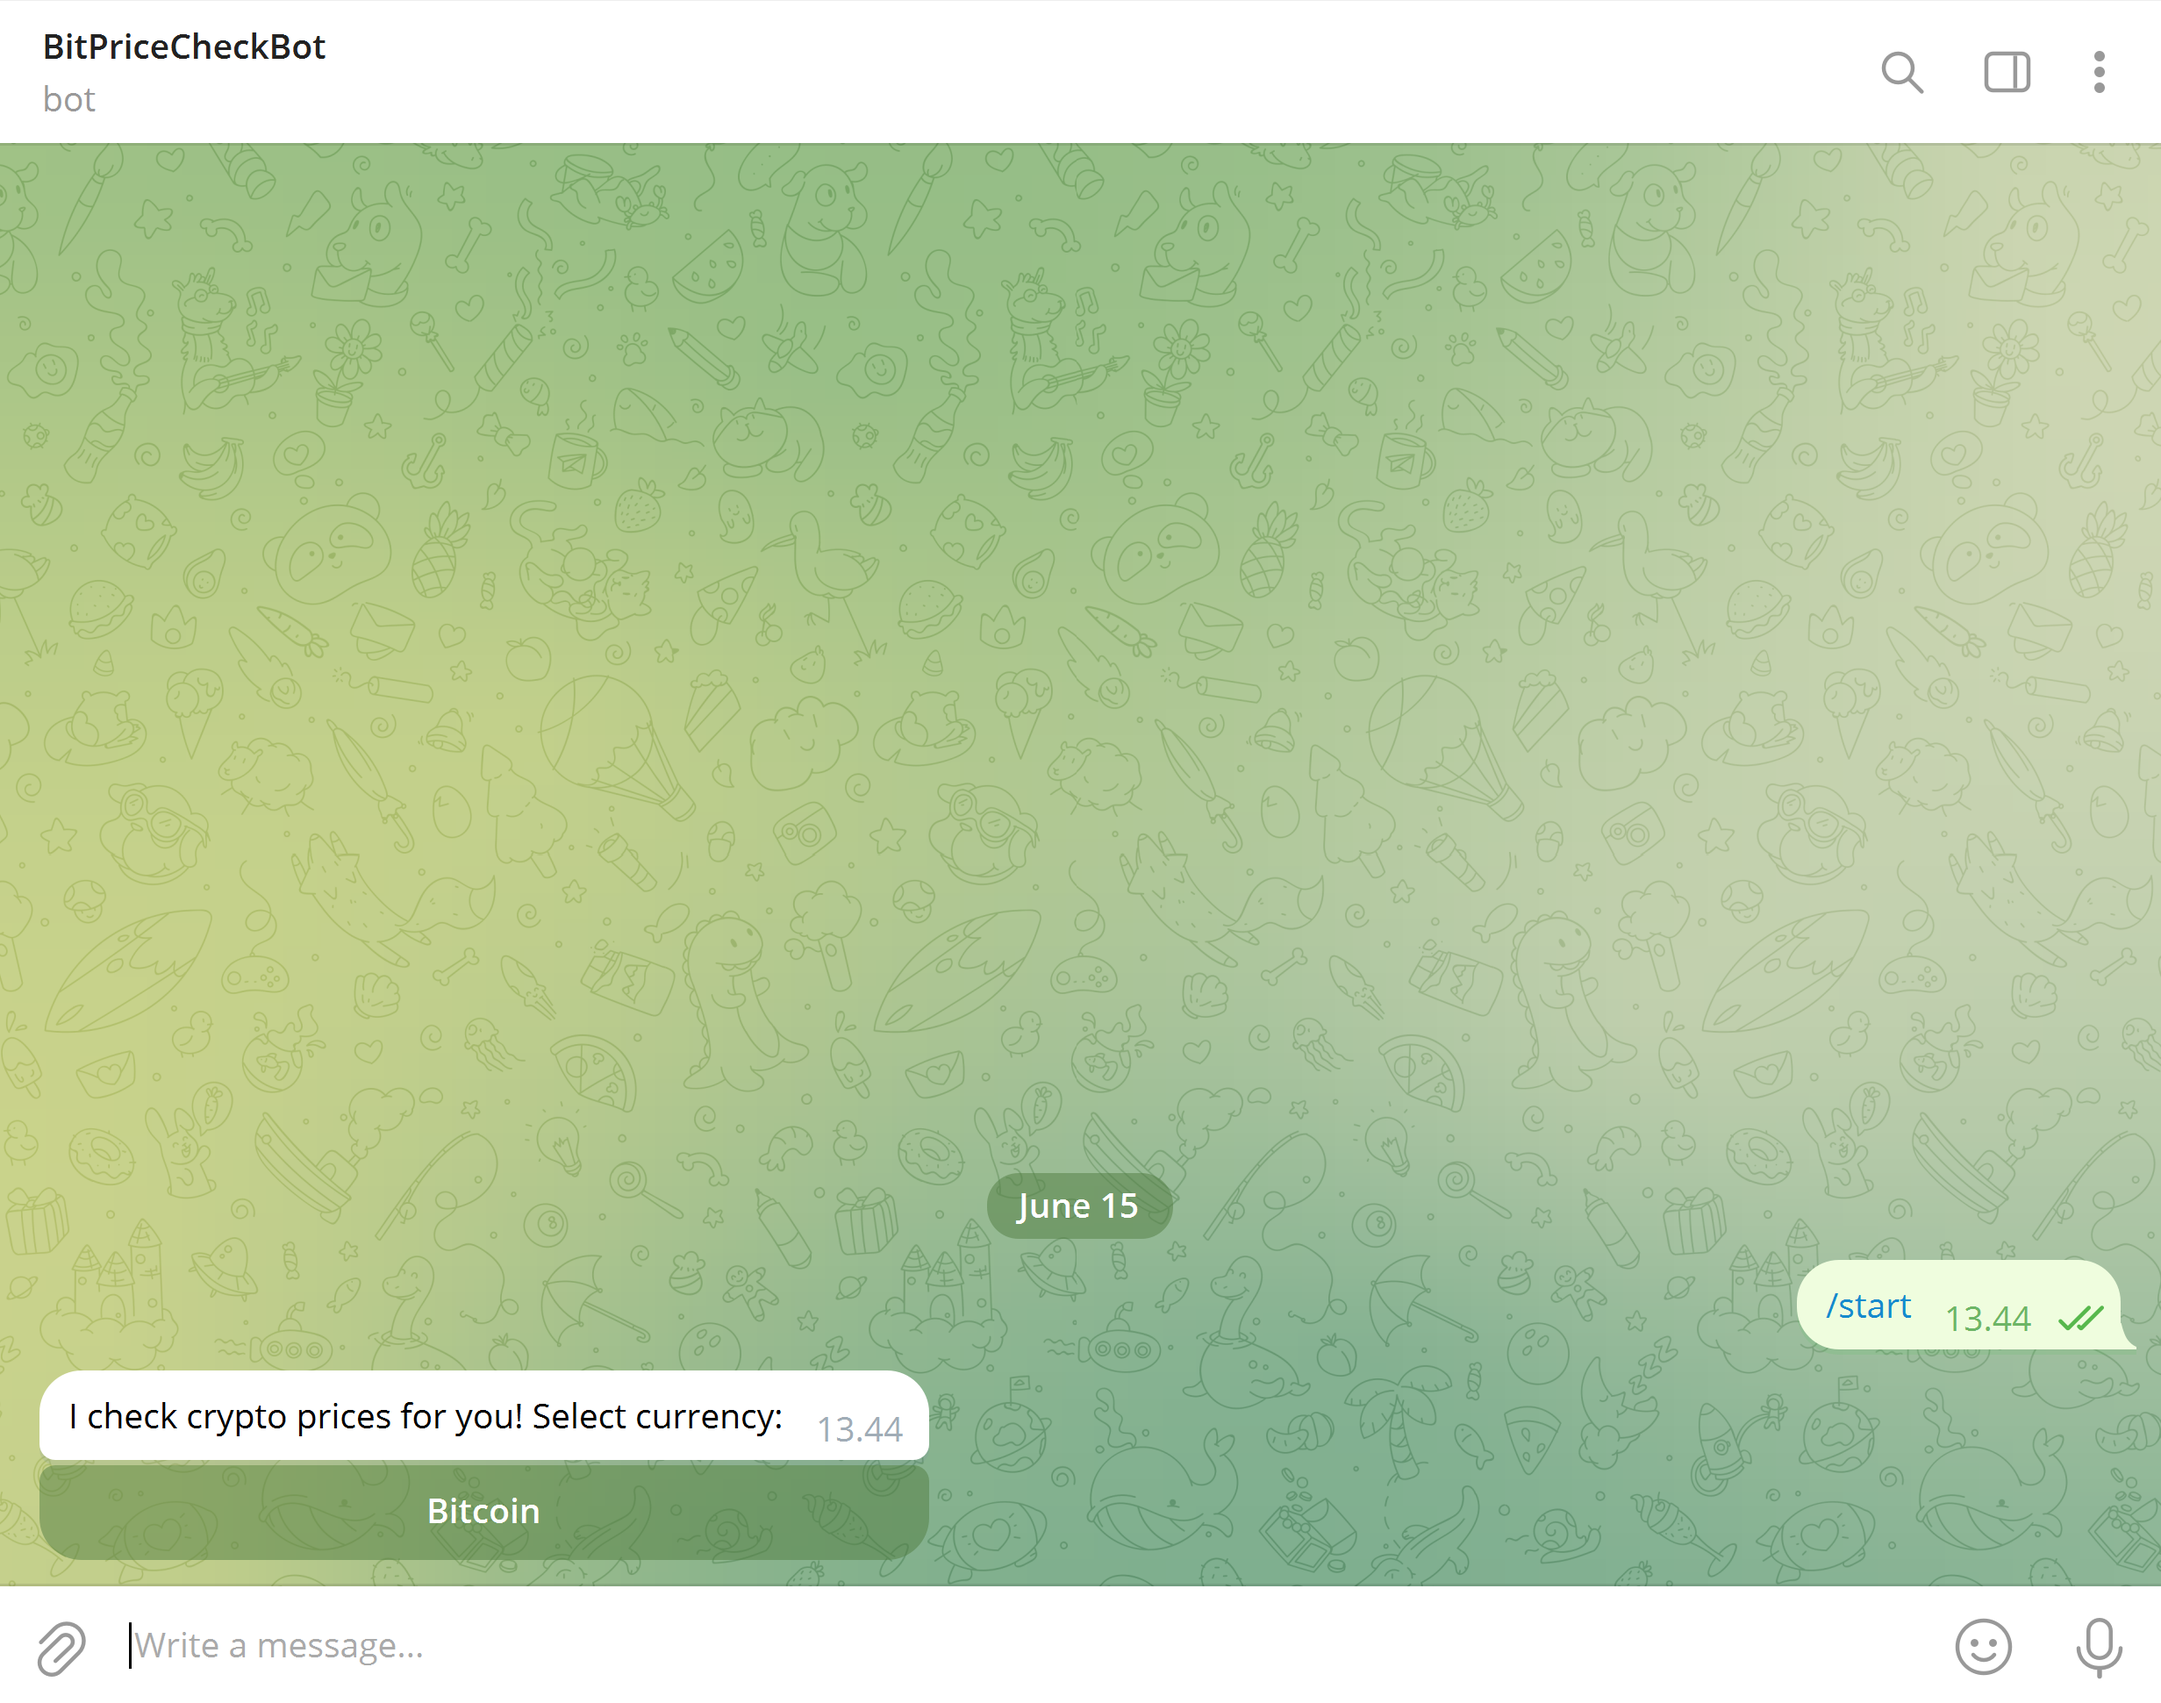
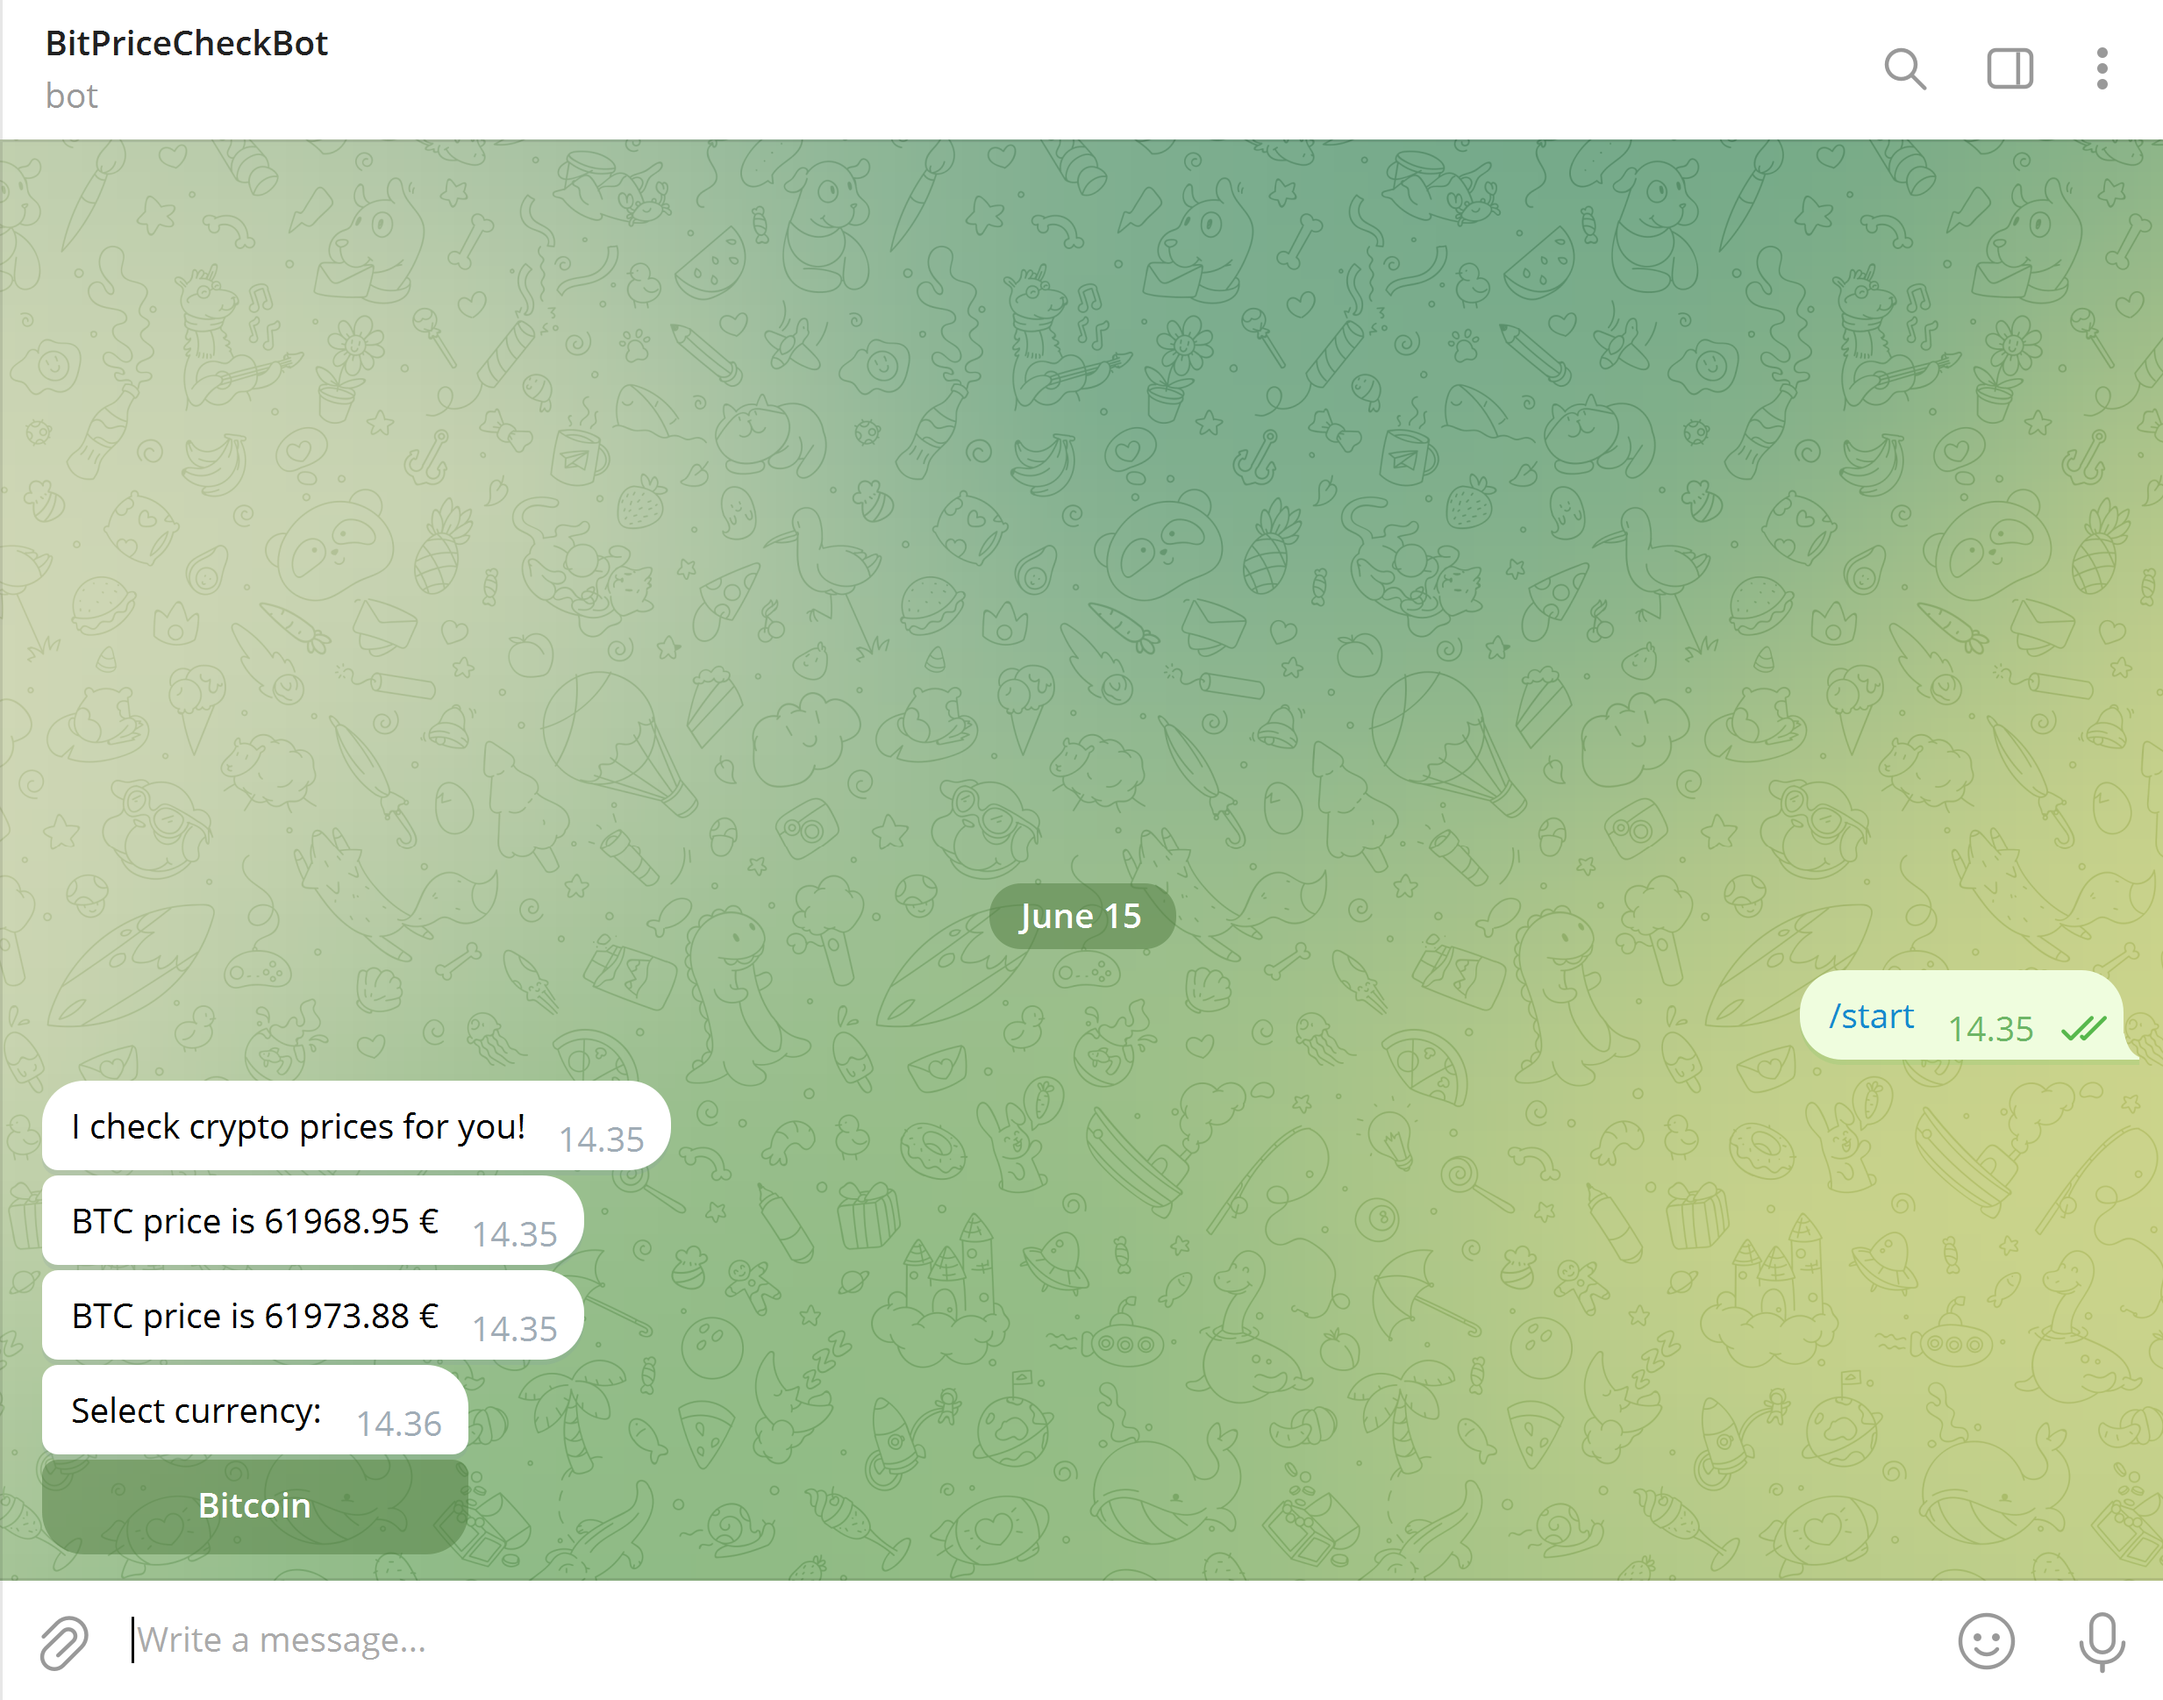
UI improvement

diff --git a/pricebot.py b/pricebot.py
@@ -15,7 +15,8 @@ def create_reply_markup():
     return reply_markup
 
 async def start(update: Update, context: ContextTypes.DEFAULT_TYPE):
-    await update.message.reply_text("I check crypto prices for you! Select currency:", reply_markup=create_reply_markup())
+    await context.bot.send_message(chat_id=update.effective_chat.id, text="I check crypto prices for you!")
+    await update.message.reply_text("Select currency:", reply_markup=create_reply_markup())
 
 async def button(update: Update, context: ContextTypes.DEFAULT_TYPE) -> None:
     bitcoin_value = currency("EUR")
@@ -23,7 +24,7 @@ async def button(update: Update, context: ContextTypes.DEFAULT_TYPE) -> None:
 
     await query.answer()
 
-    await query.edit_message_text(text=f"{bitcoin_value:.2f} €")
+    await query.edit_message_text(text=f"BTC price is {bitcoin_value:.2f} €")
     await context.bot.send_message(chat_id=update.effective_chat.id, text="Select currency:", reply_markup=create_reply_markup())
 
 
